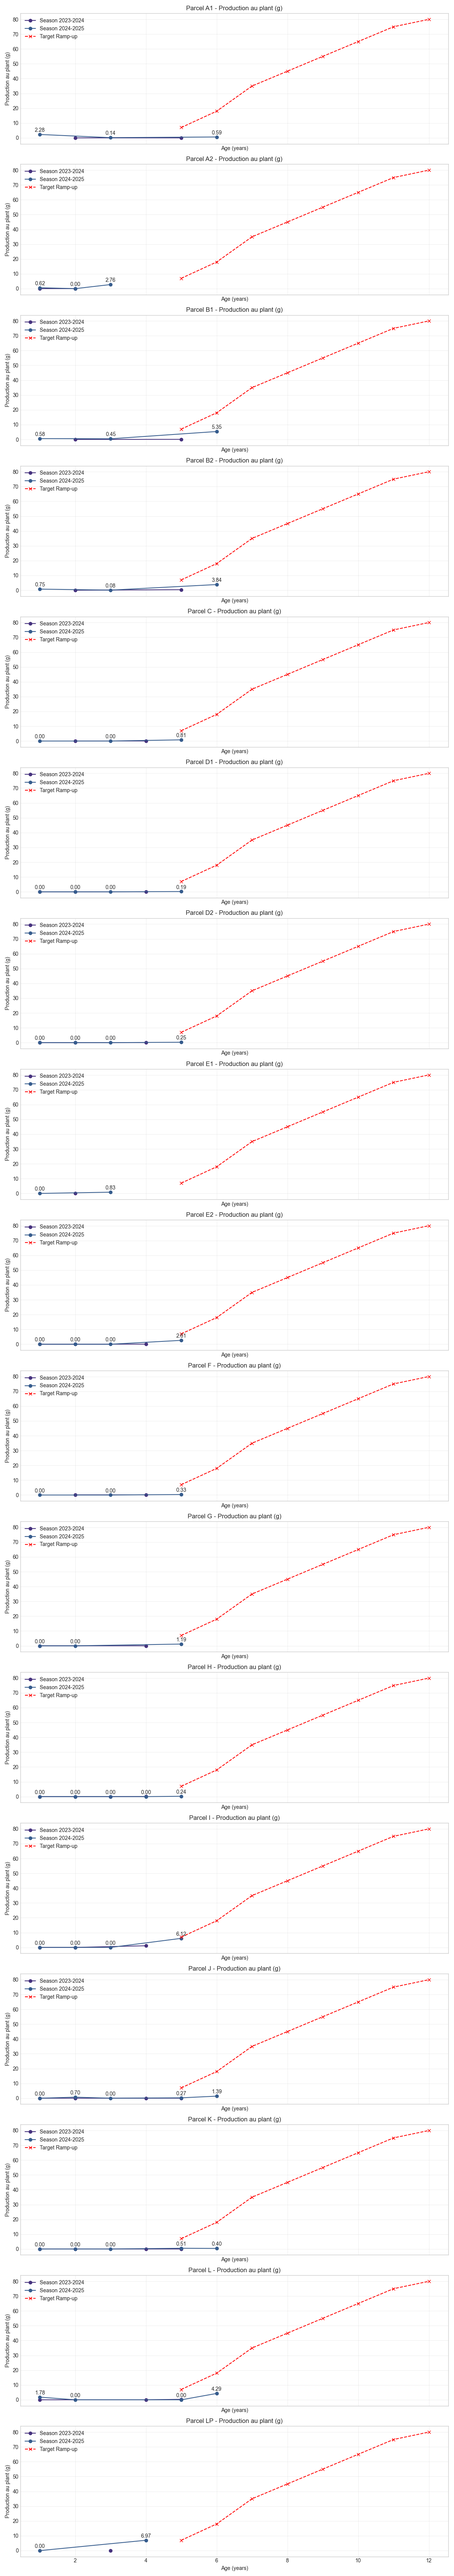
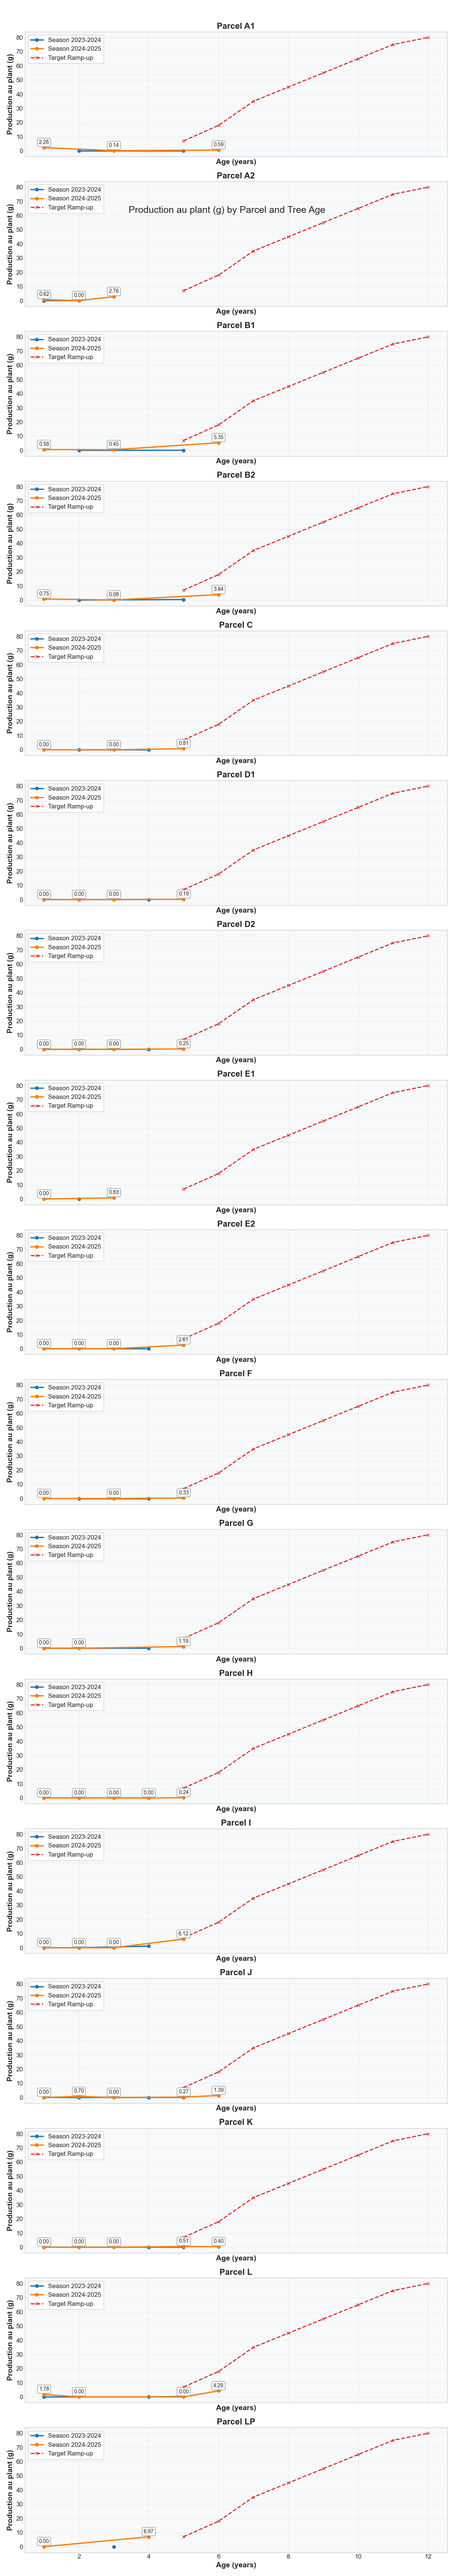
Enhance plot styling with custom colors, fonts and improved visual elements

diff --git a/plot_truffle_production.py b/plot_truffle_production.py
@@ -4,10 +4,31 @@ import matplotlib.pyplot as plt
 import seaborn as sns
 import numpy as np
 from matplotlib.ticker import MaxNLocator
+import matplotlib as mpl
+from cycler import cycler
 
-# Set plot style
+# Set plot style for more appealing visuals
 plt.style.use('seaborn-v0_8-whitegrid')
-sns.set_palette('viridis')
+
+# Custom color palette for seasons
+season_colors = {
+    '2023-2024': '#1f77b4',  # Blue
+    '2024-2025': '#ff7f0e',  # Orange
+    'Target': '#d62728'       # Red
+}
+
+# Set font properties
+plt.rcParams.update({
+    'font.family': 'sans-serif',
+    'font.sans-serif': ['Arial', 'DejaVu Sans', 'Liberation Sans'],
+    'font.size': 12,
+    'axes.titlesize': 16,
+    'axes.labelsize': 14,
+    'xtick.labelsize': 12,
+    'ytick.labelsize': 12,
+    'legend.fontsize': 12,
+    'figure.titlesize': 18
+})
 
 # Function to load and preprocess season data
 def load_season_data(file_path, season_name):
@@ -65,7 +86,8 @@ def plot_kpi_by_parcel_season_age(data, kpi):
     
     # Create a figure with subplots for each parcel
     n_parcels = len(parcels)
-    fig, axes = plt.subplots(n_parcels, 1, figsize=(12, n_parcels * 4), sharex=True)
+    fig, axes = plt.subplots(n_parcels, 1, figsize=(12, n_parcels * 4), sharex=True, dpi=100)
+    fig.suptitle(f'{kpi} by Parcel and Tree Age', fontsize=18, y=0.92)
     
     # If only one parcel, axes is not an array
     if n_parcels == 1:
@@ -75,65 +97,53 @@ def plot_kpi_by_parcel_season_age(data, kpi):
         ax = axes[i]
         parcel_data = grouped[grouped['Parcelle'] == parcel]
         
-        # Plot each season
+        # Plot each season with custom colors
         for season in ['2023-2024', '2024-2025']:
             season_data = parcel_data[parcel_data['Season'] == season]
             if not season_data.empty:
                 ax.plot(season_data['Age'], season_data[kpi], marker='o', 
-                        linestyle='-', label=f'Season {season}')
+                        linestyle='-', linewidth=2.5, 
+                        color=season_colors[season], 
+                        label=f'Season {season}')
         
         # Add ramp-up target for 'Production au plant (g)' KPI
         if kpi == 'Production au plant (g)' and not rampup.empty:
             ax.plot(rampup['Age'], rampup[kpi], marker='x', linestyle='--', 
-                   color='red', label='Target Ramp-up')
+                   linewidth=2, color=season_colors['Target'], 
+                   label='Target Ramp-up')
         
-        ax.set_title(f'Parcel {parcel} - {kpi}')
-        ax.set_xlabel('Age (years)')
-        ax.set_ylabel(kpi)
-        ax.legend()
+        ax.set_title(f'Parcel {parcel}', fontweight='bold')
+        ax.set_xlabel('Age (years)', fontweight='bold')
+        ax.set_ylabel(kpi, fontweight='bold')
+        ax.legend(loc='best', frameon=True, facecolor='white', framealpha=0.9)
         ax.grid(True, alpha=0.3)
         
         # Use integer ticks for Age
         ax.xaxis.set_major_locator(MaxNLocator(integer=True))
         
-        # Add data points annotations
+        # Add a light background color
+        ax.set_facecolor('#f8f9fa')
+        
+        # Add data points annotations with improved styling
         for idx, row in season_data.iterrows():
             ax.annotate(f"{row[kpi]:.2f}", 
                      (row['Age'], row[kpi]),
                      textcoords="offset points",
-                     xytext=(0, 5),
-                     ha='center')
+                     xytext=(0, 7),
+                     ha='center',
+                     fontsize=10,
+                     bbox=dict(boxstyle="round,pad=0.3", fc="white", ec="gray", alpha=0.8))
     
     plt.tight_layout()
     plt.savefig(f'plots/{kpi.replace(" ", "_").replace("(", "").replace(")", "").replace("%", "percent")}.png')
     plt.close()
 
-# Alternative visualization: Create heatmaps for KPIs by age and parcel for each season
-def plot_kpi_heatmaps(data, kpi):
-    for season in ['2023-2024', '2024-2025']:
-        season_data = data[data['Season'] == season]
-        
-        # Pivot data to create a matrix suitable for heatmap
-        pivot_data = season_data.pivot_table(
-            index='Parcelle', 
-            columns='Age',
-            values=kpi,
-            aggfunc='mean')
-        
-        plt.figure(figsize=(12, 8))
-        sns.heatmap(pivot_data, annot=True, cmap='viridis', fmt='.2f', linewidths=.5)
-        plt.title(f'{kpi} by Parcel and Age - Season {season}')
-        plt.ylabel('Parcel')
-        plt.xlabel('Age (years)')
-        plt.tight_layout()
-        plt.savefig(f'plots/heatmap_{season}_{kpi.replace(" ", "_").replace("(", "").replace(")", "").replace("%", "percent")}.png')
-        plt.close()
+# Function removed as per requirements
 
 # Create plots for each KPI
 for kpi in kpis:
     print(f"Plotting {kpi}...")
     plot_kpi_by_parcel_season_age(combined_data, kpi)
-    plot_kpi_heatmaps(combined_data, kpi)
 
 # Create a summary plot for Production au plant by Age, comparing all parcels against target
 def plot_production_summary(data):
@@ -143,48 +153,64 @@ def plot_production_summary(data):
     avg_by_age = data.groupby(['Age'])[kpi].mean().reset_index()
     avg_by_age_season = data.groupby(['Age', 'Season'])[kpi].mean().reset_index()
     
-    plt.figure(figsize=(14, 8))
+    plt.figure(figsize=(14, 10), dpi=100)
+    
+    # Create a light color background
+    ax = plt.gca()
+    ax.set_facecolor('#f8f9fa')
     
     # Plot average by age
     plt.plot(avg_by_age['Age'], avg_by_age[kpi], 
-             marker='o', linestyle='-', linewidth=2, 
-             color='blue', label='Average all parcels')
+             marker='o', markersize=10, linestyle='-', linewidth=3, 
+             color='#2c3e50', label='Average all parcels')
     
-    # Plot average by age and season
+    # Plot average by age and season with custom colors
     for season in ['2023-2024', '2024-2025']:
         season_data = avg_by_age_season[avg_by_age_season['Season'] == season]
         plt.plot(season_data['Age'], season_data[kpi], 
-                 marker='o', linestyle='--', 
+                 marker='o', markersize=8, linestyle='--', linewidth=2.5,
+                 color=season_colors[season],
                  label=f'Season {season}')
     
     # Plot ramp-up target
     plt.plot(rampup['Age'], rampup[kpi], 
-             marker='x', linestyle='-.', linewidth=2, 
-             color='red', label='Target Ramp-up')
+             marker='x', markersize=10, linestyle='-.', linewidth=2.5, 
+             color=season_colors['Target'], label='Target Ramp-up')
     
-    plt.title('Average Production per Plant by Age vs Target')
-    plt.xlabel('Age (years)')
-    plt.ylabel(kpi)
-    plt.legend()
+    plt.title('Average Production per Plant by Age vs Target', fontweight='bold', pad=20)
+    plt.xlabel('Age (years)', fontweight='bold', labelpad=10)
+    plt.ylabel(kpi, fontweight='bold', labelpad=10)
+    plt.legend(loc='upper left', frameon=True, facecolor='white', framealpha=0.9, fontsize=12)
     plt.grid(True, alpha=0.3)
     plt.gca().xaxis.set_major_locator(MaxNLocator(integer=True))
     
-    # Add annotations
+    # Add a border around the plot
+    for spine in plt.gca().spines.values():
+        spine.set_visible(True)
+        spine.set_color('#cccccc')
+    
+    # Add annotations with improved styling
     for _, row in avg_by_age.iterrows():
         plt.annotate(f"{row[kpi]:.2f}", 
                  (row['Age'], row[kpi]),
                  textcoords="offset points",
-                 xytext=(0, 5),
-                 ha='center')
+                 xytext=(0, 10),
+                 ha='center',
+                 fontsize=11,
+                 fontweight='bold',
+                 bbox=dict(boxstyle="round,pad=0.3", fc="white", ec="gray", alpha=0.8))
     
     # Add annotations for ramp-up target
     for _, row in rampup.iterrows():
         plt.annotate(f"{row[kpi]:.1f}", 
                  (row['Age'], row[kpi]),
                  textcoords="offset points",
-                 xytext=(0, -15),
+                 xytext=(0, -20),
                  ha='center',
-                 color='red')
+                 fontsize=11,
+                 fontweight='bold',
+                 color=season_colors['Target'],
+                 bbox=dict(boxstyle="round,pad=0.3", fc="white", ec="lightgray", alpha=0.8))
     
     plt.tight_layout()
     plt.savefig('plots/production_summary.png')
@@ -200,7 +226,25 @@ def plot_species_comparison(data):
     # Get unique species
     species = sorted(data['Espèce'].unique())
     
-    plt.figure(figsize=(14, 8))
+    # Get all unique species and create a color map dynamically
+    species_colors = {}
+    color_sets = [
+        ['#3498db', '#9b59b6'],  # Blue, Purple for 2023-2024 and 2024-2025
+        ['#2ecc71', '#f1c40f'],  # Green, Yellow for 2023-2024 and 2024-2025
+        ['#e74c3c', '#8e44ad'],  # Red, Purple for 2023-2024 and 2024-2025
+        ['#f39c12', '#16a085'],  # Orange, Teal for 2023-2024 and 2024-2025
+        ['#2980b9', '#c0392b']   # Dark Blue, Dark Red for 2023-2024 and 2024-2025
+    ]
+    
+    for i, specie in enumerate(species):
+        # Cycle through color sets if there are more species than color sets
+        species_colors[specie] = color_sets[i % len(color_sets)]
+    
+    plt.figure(figsize=(14, 10), dpi=100)
+    
+    # Create a light color background
+    ax = plt.gca()
+    ax.set_facecolor('#f8f9fa')
     
     for i, specie in enumerate(species):
         specie_data = grouped[grouped['Espèce'] == specie]
@@ -208,17 +252,32 @@ def plot_species_comparison(data):
         for j, season in enumerate(['2023-2024', '2024-2025']):
             season_data = specie_data[specie_data['Season'] == season]
             if not season_data.empty:
-                plt.plot(season_data['Age'], season_data[kpi], 
-                        marker='o', linestyle=['-', '--'][j], 
-                        color=plt.cm.tab10(i), 
+                line = plt.plot(season_data['Age'], season_data[kpi], 
+                        marker='o', markersize=8, linestyle=['-', '--'][j], linewidth=2.5,
+                        color=species_colors[specie][j], 
                         label=f'{specie} - {season}')
+                
+                # Add annotations
+                for _, row in season_data.iterrows():
+                    plt.annotate(f"{row[kpi]:.2f}", 
+                             (row['Age'], row[kpi]),
+                             textcoords="offset points",
+                             xytext=(0, 8),
+                             ha='center',
+                             fontsize=9,
+                             bbox=dict(boxstyle="round,pad=0.2", fc="white", ec="gray", alpha=0.7))
     
-    plt.title('Productivity Rate by Species, Age and Season')
-    plt.xlabel('Age (years)')
-    plt.ylabel(kpi)
-    plt.legend()
+    plt.title('Productivity Rate by Species, Age and Season', fontweight='bold', pad=20)
+    plt.xlabel('Age (years)', fontweight='bold', labelpad=10)
+    plt.ylabel(kpi, fontweight='bold', labelpad=10)
+    plt.legend(loc='upper left', frameon=True, facecolor='white', framealpha=0.9)
     plt.grid(True, alpha=0.3)
     plt.gca().xaxis.set_major_locator(MaxNLocator(integer=True))
+    
+    # Add a border around the plot
+    for spine in plt.gca().spines.values():
+        spine.set_visible(True)
+        spine.set_color('#cccccc')
     plt.tight_layout()
     plt.savefig('plots/species_productivity_comparison.png')
     plt.close()
